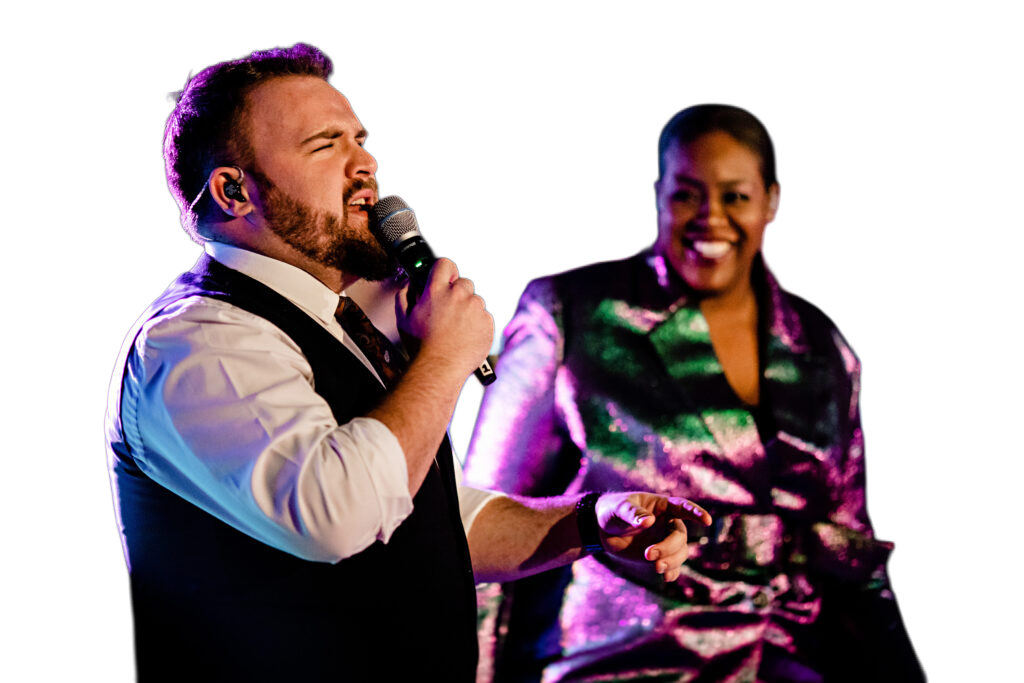
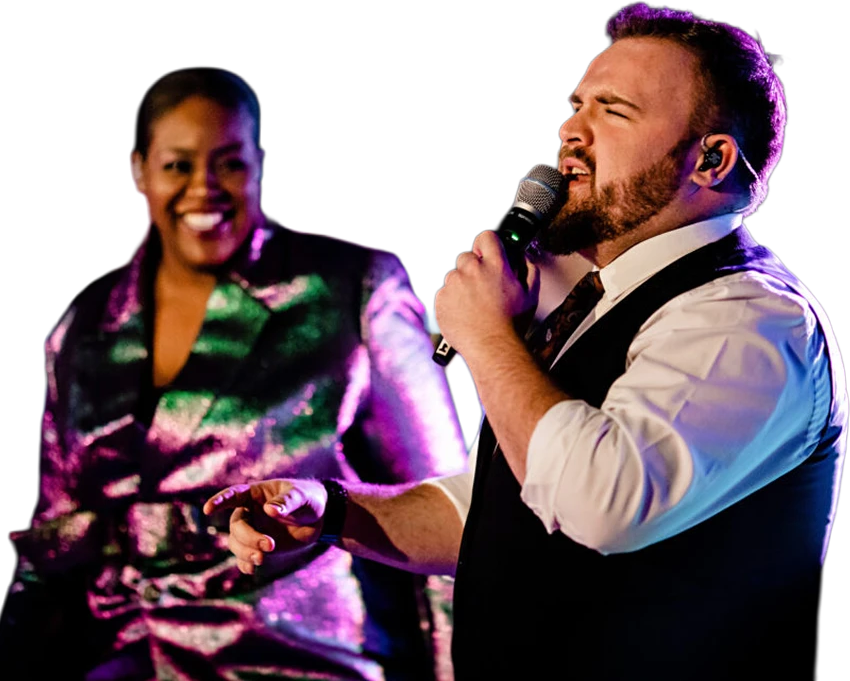
Host stripes: back to the Figma stripes picture, with faded edges
- Use the original stripes picture again (not a redrawn one), in its Figma
  place, and fade it out towards each edge so nothing is cut off.
- The Distractions: new transparent cut-out, with the stripes behind it
  like the other two rows.
- Remove the extra gap above the guest row; it was only there for the
  redrawn stripes.

Claude-Session: https://claude.ai/code/session_017j7DnUUZWAymwsH4teEfx6

diff --git a/PLACEHOLDERS.md b/PLACEHOLDERS.md
@@ -43,9 +43,8 @@ the Figma, and open questions. Update it as items are resolved.
 - [x] Spelling: it's "Baasit Siddiqui" (Matt). The Figma heading says "BASSIT"; the site now says Baasit everywhere.
 - [x] Sir Bradley Wiggins' subtitle updated to match the home page.
 - [x] Sir Bradley Wiggins' photo is the new one from Matt (smiling, helmet and sunglasses), on the home page and Your hosts. The file supplied is 670px wide where he appears, which is a little soft on high-resolution screens; a larger original would be sharper.
-- [x] Host photo stripes (home and Your hosts): redrawn to match Matt's Figma screenshot. Wider stripes, brightest behind the photo and fading to black in every direction, so there is no cropped edge. They are now a drawing (`src/assets/svg/host-stripes.svg`) rather than the old stripes picture, which had hard edges.
-- [ ] The Distractions: their photo is a full rectangle, not a cut-out, so no stripes can show behind it. Its cropped left and right edges now fade into the black instead. A cut-out of the band would let it have the stripes like the other two.
-- [ ] The guest's photo is shorter than the old one, so there is a slightly bigger gap above it on the home page (room for the stripes, which rise above the helmet as in the Figma screenshot).
+- [x] Host photo stripes (home and Your hosts): the Figma's stripes picture, in its Figma place, now fades out towards each of its edges so it melts into the black instead of stopping at a cropped edge (Matt). Same for all three rows.
+- [x] The Distractions: the photo is the transparent cut-out from Matt, so it now has the stripes behind it like the other two. Most of the stripes sit behind the two performers; they show between and above them. The small part of the jacket that runs off the left of the picture fades out.
 
 ### 2026 gallery
 - [x] The real 2026 photos are in: 516 photos (shrunk to 2400px wide by Matt before adding), each shown once.
